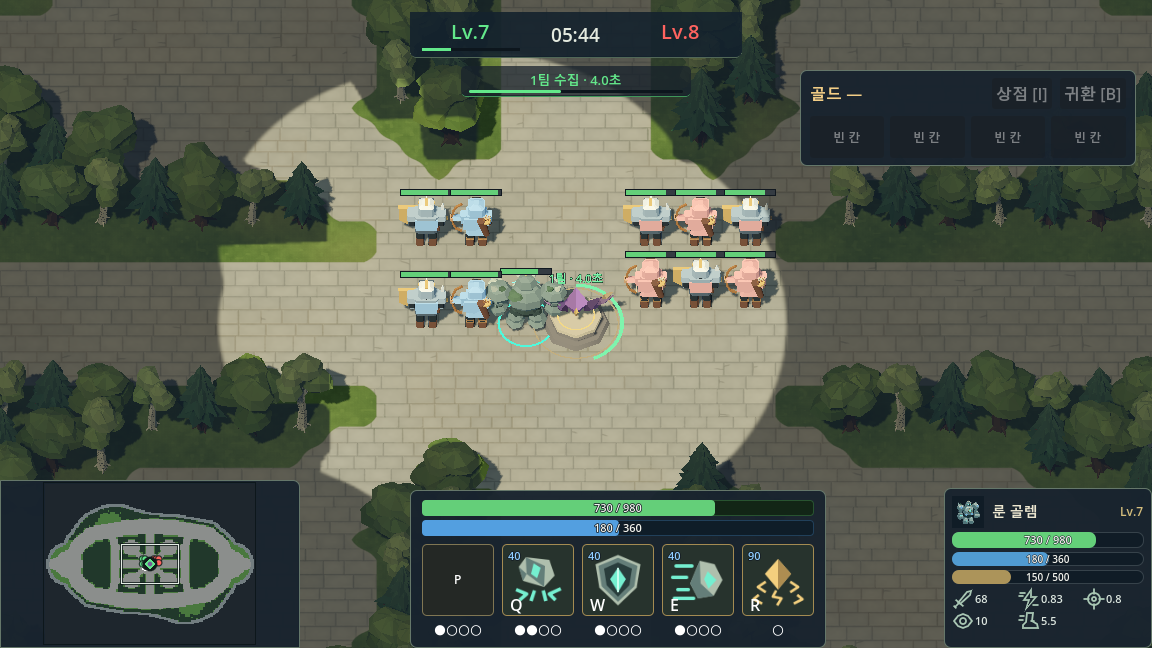
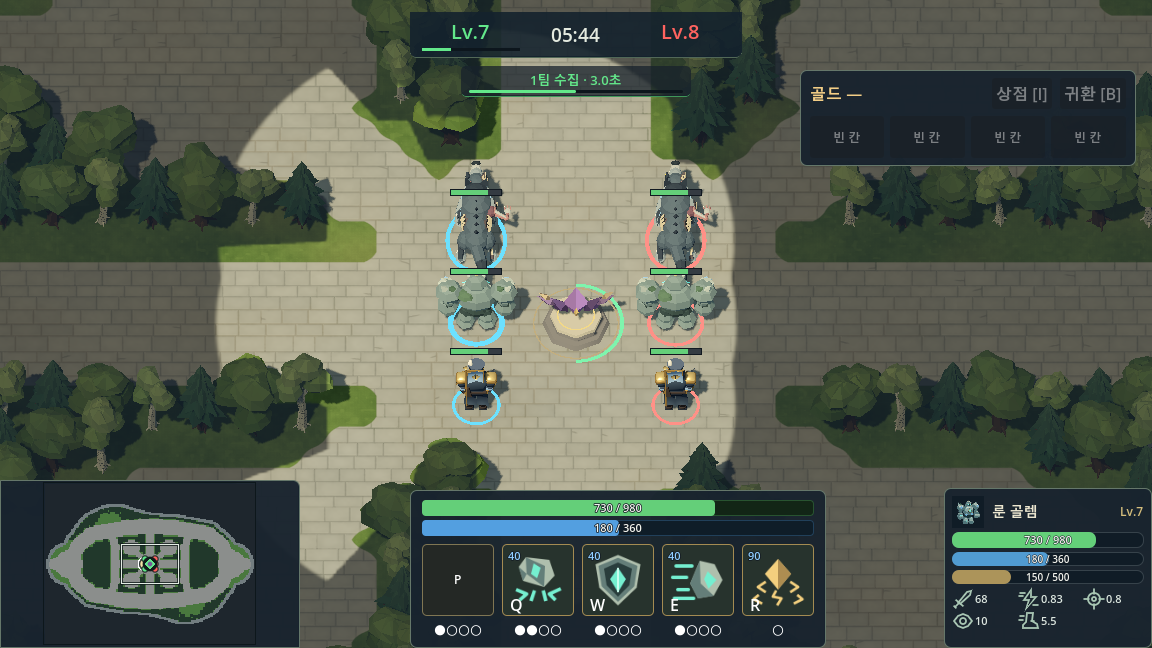
Use ground rings for hero teams and remove tribute labels

diff --git a/units/Unit.cs b/units/Unit.cs
@@ -34,6 +34,8 @@ public partial class Unit : Node3D
     private Tween _deathTween;
     private uint _localTeam;
     private TeamMaterials _teamMaterials;
+    private HeroTeamRing _heroTeamRing;
+    private bool _selected;
     private Vector3 _serverPosition;
     // 배치 검사는 50ms 늦은 표시 위치 대신 현재까지 수신한 서버 위치를 사용합니다.
     public Vector3 ServerPosition => _hasServerPosition ? _serverPosition : GlobalPosition;
@@ -46,8 +48,11 @@ public partial class Unit : Node3D
         PlacementRadius = BodyRadius > 0 ? BodyRadius :
             ((CapsuleShape3D)GetNode<CollisionShape3D>("SelectionArea/CollisionShape3D").Shape).Radius;
         HealthBar = HealthBar.Attach(this, HealthBarHeight);
-        _teamMaterials = new TeamMaterials(GetNode<Node3D>("Visual"));
-        _teamMaterials.Apply(Team, _localTeam);
+        if (UnitCatalog.IsHero(UnitType))
+            _heroTeamRing = new HeroTeamRing(GetNode<MeshInstance3D>("SelectionRing"));
+        else
+            _teamMaterials = new TeamMaterials(GetNode<Node3D>("Visual"));
+        RefreshTeamPresentation();
     }
 
     public void ApplyHealth(HealthSnapshot health)
@@ -69,6 +74,8 @@ public partial class Unit : Node3D
         _deathTween = null;
         _teamMaterials?.Dispose();
         _teamMaterials = null;
+        _heroTeamRing?.Dispose();
+        _heroTeamRing = null;
     }
 
     public void Initialize(uint unitId, uint ownerId, uint team)
@@ -77,13 +84,19 @@ public partial class Unit : Node3D
         UnitId = unitId;
         OwnerId = ownerId;
         Team = team;
-        _teamMaterials?.Apply(Team, _localTeam);
+        RefreshTeamPresentation();
     }
 
     public void SetLocalTeam(uint team)
     {
         _localTeam = team;
+        RefreshTeamPresentation();
+    }
+
+    private void RefreshTeamPresentation()
+    {
         _teamMaterials?.Apply(Team, _localTeam);
+        _heroTeamRing?.Apply(Team, _localTeam, _selected, IsDying);
     }
 
     // UNIT 스냅샷은 즉시 배치하고 이전 보간 이력을 버립니다.
@@ -181,7 +194,9 @@ public partial class Unit : Node3D
 
     public void SetSelected(bool selected)
     {
-        GetNode<MeshInstance3D>("SelectionRing").Visible = selected && !IsDying;
+        _selected = selected && !IsDying;
+        if (_heroTeamRing != null) RefreshTeamPresentation();
+        else GetNode<MeshInstance3D>("SelectionRing").Visible = _selected;
         HealthBar?.SetSelected(selected && !IsDying);
     }
 }

diff --git a/previews/CompactHud.cs b/previews/CompactHud.cs
@@ -15,8 +15,8 @@ public partial class CompactHud : Main
             typeof(Main).GetMethod("ConnectInput", Private).Invoke(this, null);
             Fog.Configure(Map);
             Receive($"MAP 2 {Map.MapHash}"); Receive("WORLD_READY"); Receive("WELCOME 7 1 HERO 201");
-            Receive("SIGHT UNIT 201 10"); Receive("SIGHT UNIT 1 8"); Receive("SIGHT UNIT 2 9");
-            Receive("UNIT 201 701 7 -2 0 1"); Receive("HP 701 730 980"); Receive("MANA 701 180 360");
+            Receive("SIGHT UNIT 200 10"); Receive("SIGHT UNIT 201 10"); Receive("SIGHT UNIT 202 10");
+            Receive("UNIT 201 701 7 -4 0 1"); Receive("HP 701 730 980"); Receive("MANA 701 180 360");
             Receive("STATS 701 68 0.8 1.2 5.5 10"); Receive("STATE 701 IDLE 0 0 0");
             Receive("ABILITY UNIT 201 0 golem-slam SELF 0 10 0");
             Receive("ABILITY UNIT 201 1 golem-shell SELF 0 13 0");
@@ -26,18 +26,19 @@ public partial class CompactHud : Main
             Receive("HERO_SKILLS 201 7 0 1 2 1 1 0 1");
             Receive("TEAM_LEVEL 1 7"); Receive("TEAM_LEVEL 2 8");
             Receive("TEAM_EXP 1 7 150 500 160000"); Receive("EXP 7 150 500"); Receive("TICK 10320");
-            Receive("TRIBUTE 1 ACTIVE 0 0 0 701 1 10230 10440 0 0");
-            for (int i = 0; i < 6; i++)
+            Receive("TRIBUTE 1 ACTIVE 0 0 0 701 1 10230 10410 0 0");
+            // The same three hero designs on both teams show that only their ground rings change color.
+            for (int i = 0; i < 3; i++)
             {
                 uint id = (uint)(710 + i);
-                Receive($"UNIT {(i % 2 == 0 ? 1 : 2)} {id} 8 {3 + i % 3 * 2} {-4 + i / 3 * 3} 2");
-                Receive($"HP {id} 240 300");
+                Receive($"UNIT {200 + i} {id} {8 + i} 4 {-4 + i * 4} 2");
+                Receive($"HP {id} 730 980");
             }
-            for (int i = 0; i < 4; i++)
+            foreach (int i in new[] { 0, 2 })
             {
                 uint id = (uint)(720 + i);
-                Receive($"UNIT {(i % 2 == 0 ? 1 : 2)} {id} 9 {-6 + i % 2 * 2} {-4 + i / 2 * 4} 1");
-                Receive($"HP {id} 280 300");
+                Receive($"UNIT {200 + i} {id} {11 + i} -4 {-4 + i * 4} 1");
+                Receive($"HP {id} 730 980");
             }
             Units.Camera.Size = 26;
             CameraNavigation.FocusGround(Units.Camera, Vector3.Zero);

diff --git a/visuals/HeroTeamRing.cs b/visuals/HeroTeamRing.cs
@@ -1,0 +1,58 @@
+using Godot;
+using System;
+
+// Heroes keep their original body materials. One persistent ring carries team and selection cues.
+public sealed class HeroTeamRing : IDisposable
+{
+    private static readonly Color FriendlyColor = new("55c7ff");
+    private static readonly Color EnemyColor = new("ff7169");
+    private readonly MeshInstance3D _ring;
+    private readonly Mesh _originalMesh;
+    private readonly Material _originalOverride;
+    private readonly TorusMesh _mesh;
+    private readonly StandardMaterial3D _material;
+    private bool _disposed;
+
+    public HeroTeamRing(MeshInstance3D ring)
+    {
+        _ring = ring;
+        _originalMesh = ring.Mesh;
+        _originalOverride = ring.MaterialOverride;
+        _mesh = new TorusMesh { InnerRadius = .65f, OuterRadius = .75f, Rings = 64, RingSegments = 8 };
+        _material = new StandardMaterial3D
+        {
+            ShadingMode = BaseMaterial3D.ShadingModeEnum.Unshaded,
+            AlbedoColor = FriendlyColor
+        };
+        // Keep the hero scene's footprint and attachment to its visible world unit.
+        ring.Mesh = _mesh;
+        ring.MaterialOverride = _material;
+        ring.Position = new Vector3(ring.Position.X, .08f, ring.Position.Z);
+        ring.CastShadow = GeometryInstance3D.ShadowCastingSetting.Off;
+    }
+
+    public void Apply(uint team, uint displayTeam, bool selected, bool dying)
+    {
+        if (_disposed) return;
+        _ring.Visible = team != 0 && displayTeam != 0 && !dying;
+        Color color = team == displayTeam ? FriendlyColor : EnemyColor;
+        if (_material.AlbedoColor != color) _material.AlbedoColor = color;
+        // Strengthen the same ring when selected; do not stack a second selection ring.
+        float innerRadius = selected ? .60f : .65f;
+        if (!Mathf.IsEqualApprox(_mesh.InnerRadius, innerRadius)) _mesh.InnerRadius = innerRadius;
+    }
+
+    public void Dispose()
+    {
+        if (_disposed) return;
+        _disposed = true;
+        if (GodotObject.IsInstanceValid(_ring))
+        {
+            _ring.Hide();
+            _ring.Mesh = _originalMesh;
+            _ring.MaterialOverride = _originalOverride;
+        }
+        _mesh.Dispose();
+        _material.Dispose();
+    }
+}

diff --git a/events/TributeEventView.cs b/events/TributeEventView.cs
@@ -13,7 +13,6 @@ public partial class TributeEventView : Node3D
     private uint _tick, _localTeam;
     private Area3D _pickArea;
     private Node3D _relic;
-    private Label3D _label;
     private MeshInstance3D _progress;
     private StandardMaterial3D _progressMaterial;
     private int _arcSteps = -1;
@@ -52,15 +51,6 @@ public partial class TributeEventView : Node3D
         var relicMesh = new MeshInstance3D { Name = "FacetedOffering", Mesh = RelicMesh(), MaterialOverride = crystal };
         _relic.AddChild(relicMesh);
 
-        _label = new Label3D
-        {
-            Name = "CollectionLabel", Position = new Vector3(0, 3.25f, 0),
-            Billboard = BaseMaterial3D.BillboardModeEnum.Enabled, FontSize = 38,
-            PixelSize = .012f, OutlineSize = 8, Modulate = Amber,
-            OutlineModulate = new Color("151821"), NoDepthTest = true,
-            Shaded = false
-        };
-        AddChild(_label);
         _pickArea = new Area3D
         {
             Name = "TributePickArea", CollisionLayer = 0, CollisionMask = 0,
@@ -114,11 +104,7 @@ public partial class TributeEventView : Node3D
         _pickArea.CollisionLayer = Active ? PickLayer : 0;
         if (!Active) { _progress.Visible = false; return; }
         bool channeling = _snapshot.Channeling;
-        _label.Text = channeling
-            ? $"{_snapshot.CapturerTeam}팀 · {_snapshot.RemainingSeconds(_tick):0.0}초"
-            : "공물";
         Color color = channeling ? TeamColor(_snapshot.CapturerTeam) : Amber;
-        _label.Modulate = color;
         _progressMaterial.AlbedoColor = color;
         _progress.Visible = channeling;
         int steps = channeling ? Math.Clamp((int)Math.Ceiling(ChannelProgress * 64), 0, 64) : 0;

diff --git a/tools/BakeSelectionPortraits.cs b/tools/BakeSelectionPortraits.cs
@@ -80,6 +80,7 @@ public partial class BakeSelectionPortraits : Node
         viewport.AddChild(model);
         // 루트 스크립트, 충돌, 체력바, 애니메이션은 초상화에서 실행하지 않습니다.
         Node source = scene.Instantiate();
+        bool hero = source is Unit heroSource && UnitCatalog.IsHero(heroSource.UnitType);
         float buildingHeight = building ? ((Building)source).HealthBarHeight : 0;
         float unitHeight = source is Unit unitSource ? unitSource.HealthBarHeight : 2.4f;
         foreach (string childName in new[] { "Visual", "Turret" })
@@ -91,9 +92,12 @@ public partial class BakeSelectionPortraits : Node
             model.AddChild(visual);
         }
         source.Free();
-        var materials = new TeamMaterials(model);
-        materials.Apply(enemy ? 2u : 1u, 1);
-        _materials.Add(materials);
+        if (!hero)
+        {
+            var materials = new TeamMaterials(model);
+            materials.Apply(enemy ? 2u : 1u, 1);
+            _materials.Add(materials);
+        }
 
         viewport.AddChild(new WorldEnvironment
         {

diff --git a/ui/SelectionPortraits.cs b/ui/SelectionPortraits.cs
@@ -13,9 +13,9 @@ public partial class SelectionPortraits : Node
         {
             "res://units/Worker.tscn" => enemy ? "worker-enemy" : "worker",
             "res://units/Knight.tscn" => enemy ? "knight-enemy" : "knight",
-            "res://units/HeroTest.tscn" => enemy ? "mutant-wolf-enemy" : "mutant-wolf",
-            "res://units/HeroGolem.tscn" => enemy ? "rune-golem-enemy" : "rune-golem",
-            "res://units/HeroMarshal.tscn" => enemy ? "marshal-enemy" : "marshal",
+            "res://units/HeroTest.tscn" => "mutant-wolf",
+            "res://units/HeroGolem.tscn" => "rune-golem",
+            "res://units/HeroMarshal.tscn" => "marshal",
             "res://units/Archer.tscn" => enemy ? "archer-enemy" : "archer",
             "res://units/Medic.tscn" => enemy ? "medic-enemy" : "medic",
             "res://units/MinionKnight.tscn" => enemy ? "minion-knight-enemy" : "minion-knight",

diff --git a/ui/HeroShopPanel.cs b/ui/HeroShopPanel.cs
@@ -38,7 +38,7 @@ public partial class HeroShopPanel : Control
         _gold.AddThemeColorOverride("font_color",new Color("f3ce86"));row.AddChild(_gold);
         _toggle=Button("상점 [I]",()=>Toggle());row.AddChild(_toggle);
         _recall=Button("귀환 [B]",()=> { if (_canRecall) RecallRequested?.Invoke(); });row.AddChild(_recall);
-        _recall.TooltipText="8초 동안 집중하여 부활 구역으로 귀환합니다. 이동·적 피격 등으로 취소됩니다.";
+        _recall.TooltipText="정신집중을 마치면 부활 구역으로 귀환합니다. 이동·적 피격 등으로 취소됩니다.";
         var equipment=new HBoxContainer { Name="Slots" };equipment.AddThemeConstantOverride("separation",6);content.AddChild(equipment);
         for (int i=0;i<4;i++)
         {

diff --git a/docs/game-modes.md b/docs/game-modes.md
@@ -30,7 +30,7 @@ AI 지휘관은 나무 채집, 일꾼 충원, 합숙소·병영 건설과 기사
 
 ## 중앙 공물과 공성추
 
-첫 참가 후 2분에 중앙 광장에 공물이 등장하며, 보상 공성추가 모두 소멸한 시점부터 3분 뒤 다시 등장합니다. `TRIBUTE`의 `WAITING` 상태에서 `NextSpawnTick = 0`은 공성추 진군 중을 뜻하며, 클라이언트는 서버가 다음 등장 시간을 보내기 전까지 카운트다운을 시작하지 않습니다. 영웅으로 공물을 우클릭하면 가까이 이동해 8초 동안 정신집중합니다. 미니언·용병·일꾼은 수집할 수 없고, 한 번에 한 영웅만 수집합니다.
+첫 참가 후 2분에 중앙 광장에 공물이 등장하며, 보상 공성추가 모두 소멸한 시점부터 3분 뒤 다시 등장합니다. `TRIBUTE`의 `WAITING` 상태에서 `NextSpawnTick = 0`은 공성추 진군 중을 뜻하며, 클라이언트는 서버가 다음 등장 시간을 보내기 전까지 카운트다운을 시작하지 않습니다. 영웅으로 공물을 우클릭하면 가까이 이동해 서버가 정한 시간 동안 정신집중합니다. 미니언·용병·일꾼은 수집할 수 없고, 한 번에 한 영웅만 수집합니다. 공물 위에는 이름·남은 시간 텍스트를 띄우지 않으며, 공물 주변의 팀 색상 진행 원이 서버 시작·종료 틱에 맞춰 차오릅니다.
 
 이동·공격·정지 등 새 명령, 스킬 시전, 적에게 실제 체력 피해를 받음, 기절·침묵·강제 이동·사망·접속 종료는 수집을 취소합니다. 취소 후 다시 우클릭해야 하며, 보호막만 소모된 피해는 중단시키지 않습니다. 화면에서 남은 시간·수집 진행률을 보고, 미니맵에서 생성 위치를 확인할 수 있습니다. `center_event` 메타데이터가 없는 맵에서는 이벤트를 사용하지 않습니다.
 

diff --git a/CHANGELOG.md b/CHANGELOG.md
@@ -5,6 +5,8 @@
 
 ## 2026-10-15
 
+- 공물 위 이름·수집 시간 텍스트를 없애고 바닥의 진행 원으로 수집 상태를 표시합니다. 영웅 본체의 진영색을 통일하고, 선택 여부와 관계없이 발밑 원 색상으로 아군·적군을 구분합니다.
+- 귀환 툴팁의 고정 시간 문구를 없앴습니다. 공물 수집과 귀환의 실제 진행률·남은 시간은 서버 시작·종료 틱을 따릅니다.
 - 서버 `MANA`와 `MANA_COST`를 연결해 영웅 마나·스킬 비용과 마나 부족 상태를 표시합니다. 소비·재생·시전 성공은 서버 응답을 따르며 사망·시야 이탈·세션 초기화 시 이전 수치를 지웁니다.
 - 상단 HUD를 양 팀 레벨과 중앙 경기 시간으로 줄였습니다. 공개 `TEAM_LEVEL`과 자신의 팀만 받는 상세 `TEAM_EXP`를 분리하며, 경험치 상세는 진행선과 툴팁으로 표시합니다. 관련 서버 메시지 변경과 함께 적용해야 합니다.
 - 스킬의 상시 마우스 안내·강화 설명을 없애고 강화 포인트가 있을 때만 `+` 버튼을 표시합니다. 스킬·능력치 설명 툴팁은 마우스를 올리면 즉시 열립니다.
